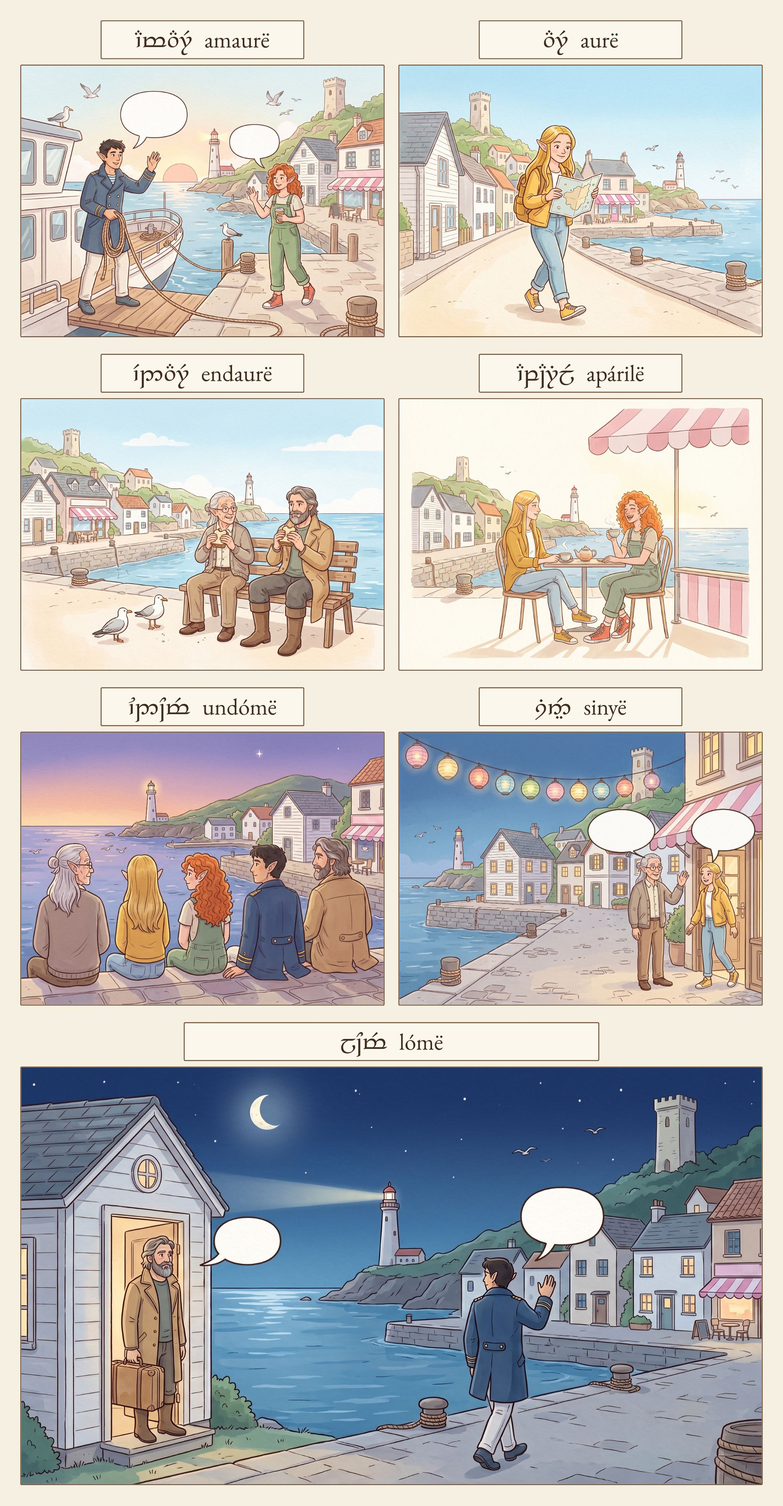
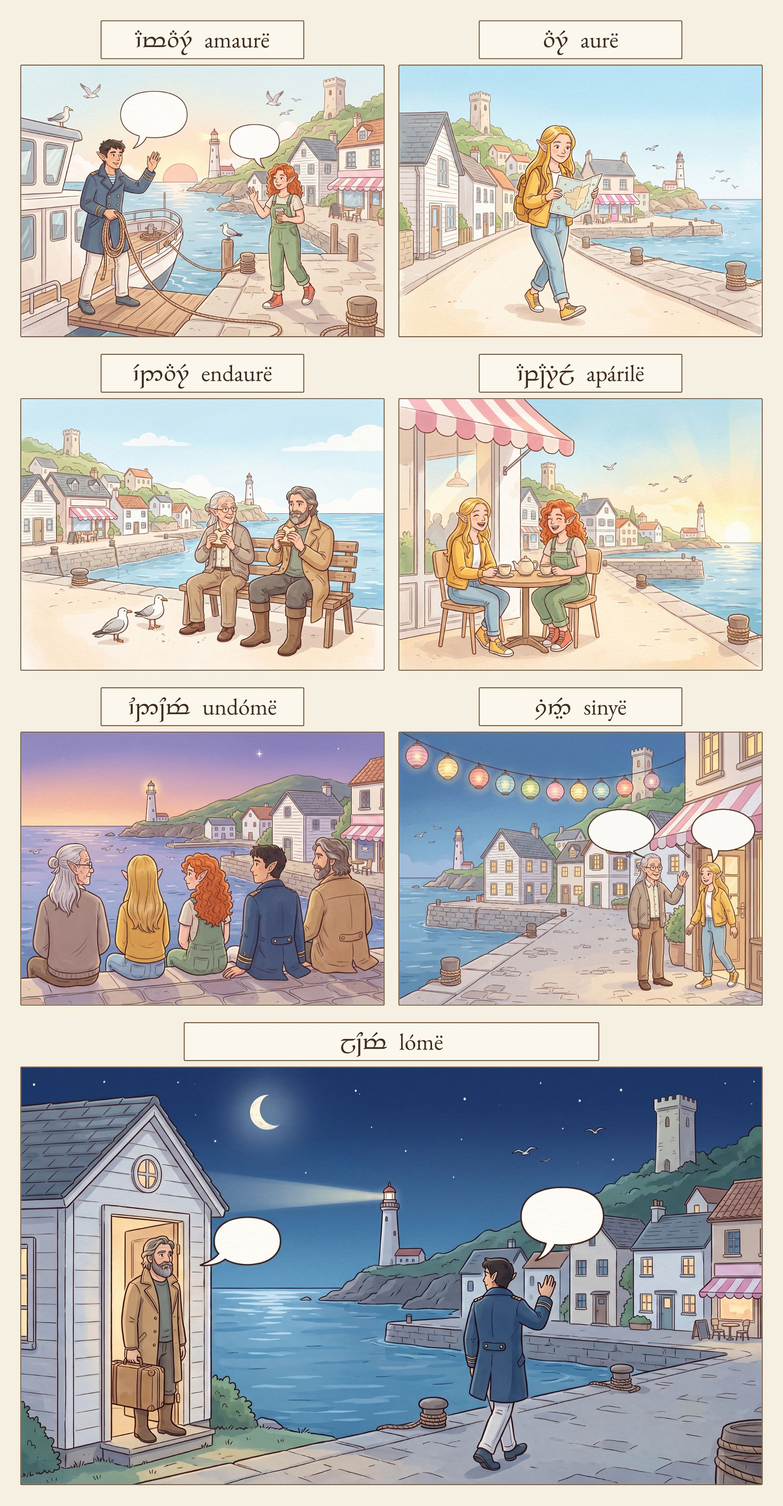
feat: new apárilë panel on the times-of-day page
Replaces the first-run stand-in (blank cream sky) with the regenerated
5.4: Elenwë and Nerdanel at a café table in the afternoon light, sky
painted to the edges. Brick marks on the wall that read as letters were
painted out. All chapter 1 pictures now follow the cast sheet.

Claude-Session: https://claude.ai/code/session_016bLgB7ueJy3rraSX6byg5u

Changed region(s): [[0.5, 0.2499, 1.0, 0.4686]]

diff --git a/raw_images/prompts/parande_1.md b/raw_images/prompts/parande_1.md
@@ -20,15 +20,12 @@ if a generated picture differs from the prompt, update both.
 | `parande_1_mallo.jpeg` | *Mallo tulilyë?* | done |
 | `parande_1_noti.jpeg` | *Nóti* | done |
 | `greetings.jpeg` | *Aiya!... ar Namárië!* | done (4.3 mirrored) |
-| `daytime.jpeg` | *Lúmë* | done, except 5.4 (stand-in) |
+| `daytime.jpeg` | *Lúmë* | done |
 | `cover.jpeg` | book cover | done (title set by hand) |
 
 Every picture was checked against the cast sheet before it went in. Stray
 lettering (mostly "CAFÉ" on the café) was painted out, and drawn frames and
-cream margins were cropped. Panel 5.4 is still the first run's version, which
-has a blank cream sky: regenerate it with the prompt below and replace
-`raw_images/unlabelled/daytime_4_aparile.jpeg` and the panel in
-`raw_images/daytime.jpeg`.
+cream margins were cropped.
 
 ## 1. `parande_1_essi.jpeg` – *Mana esselya?*
 
